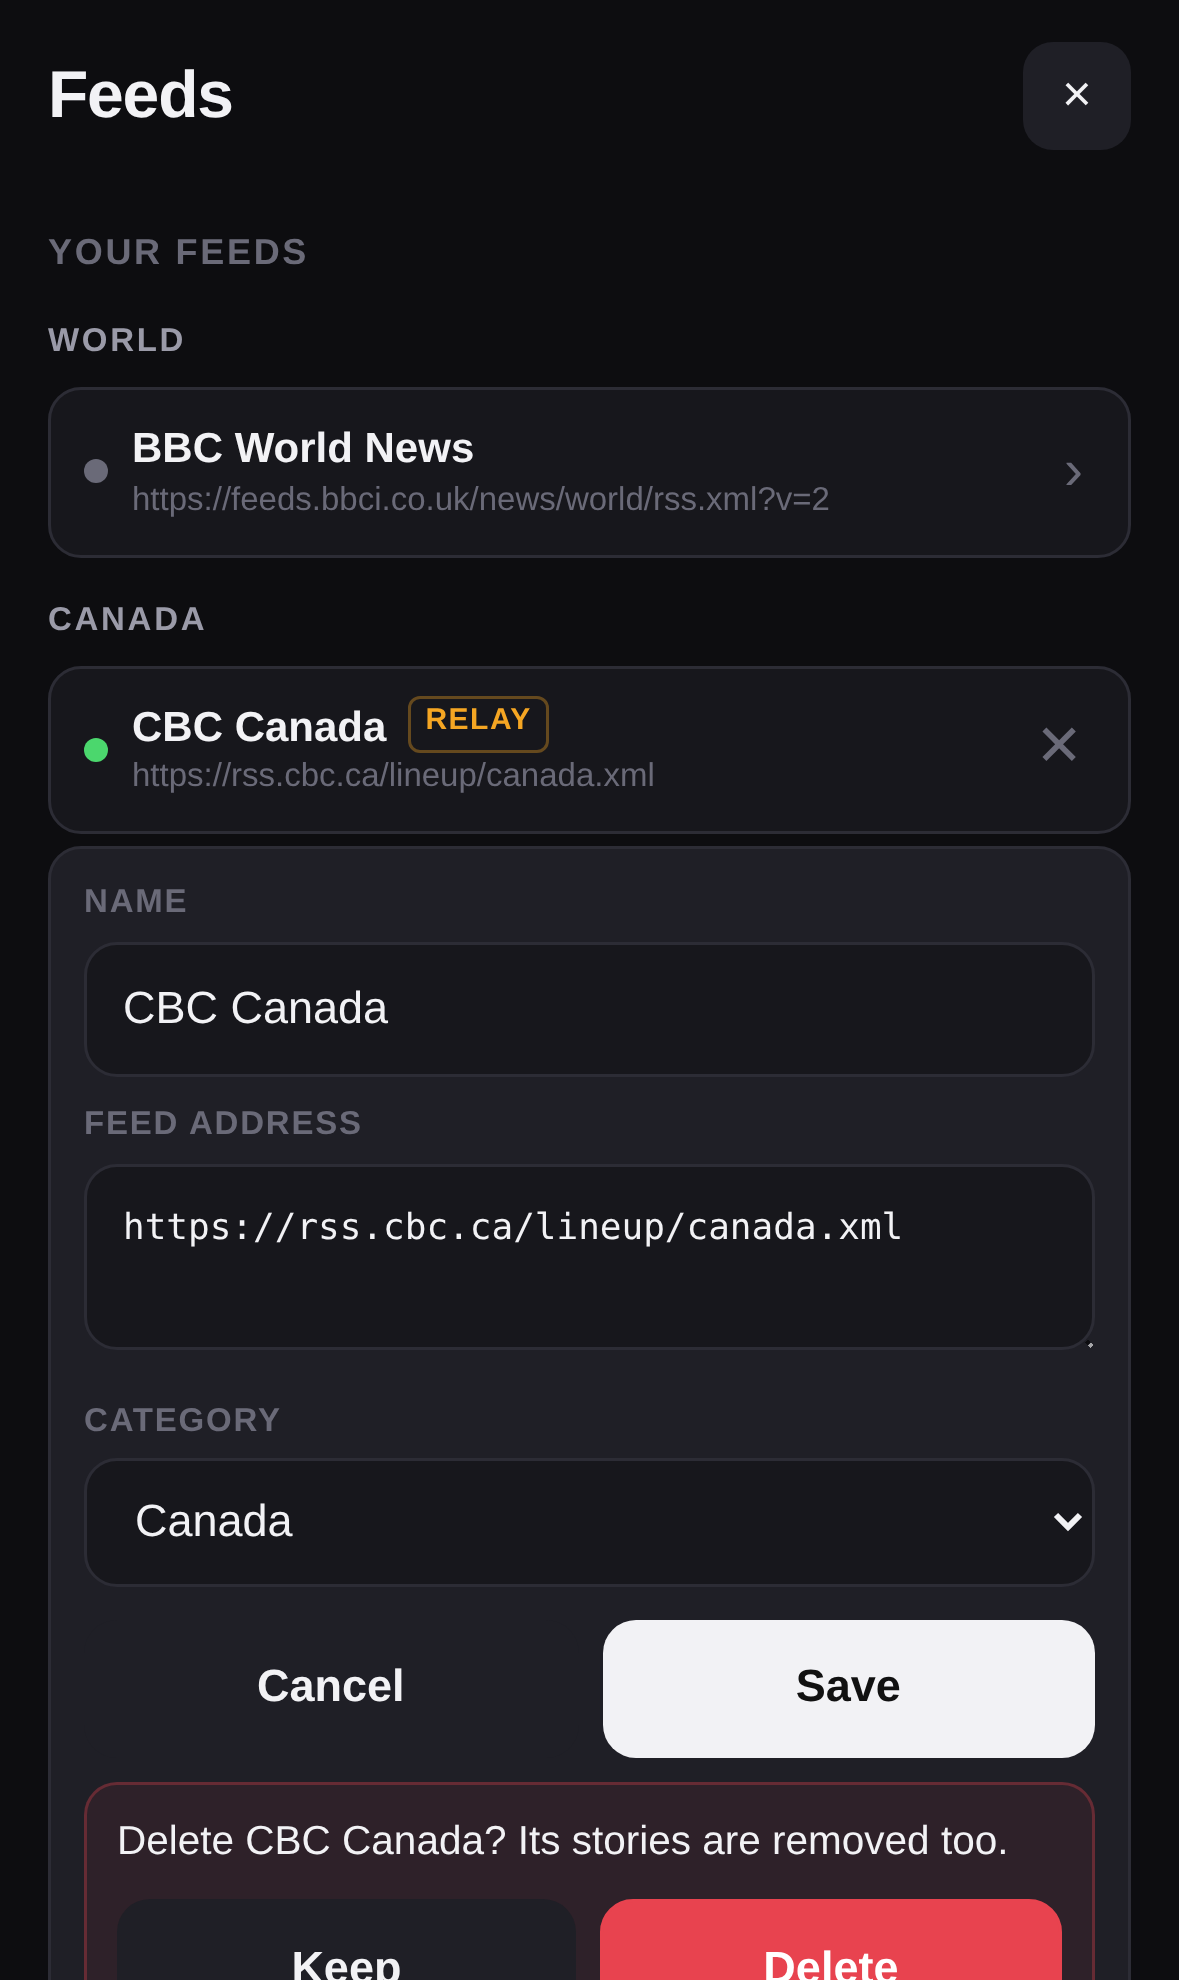
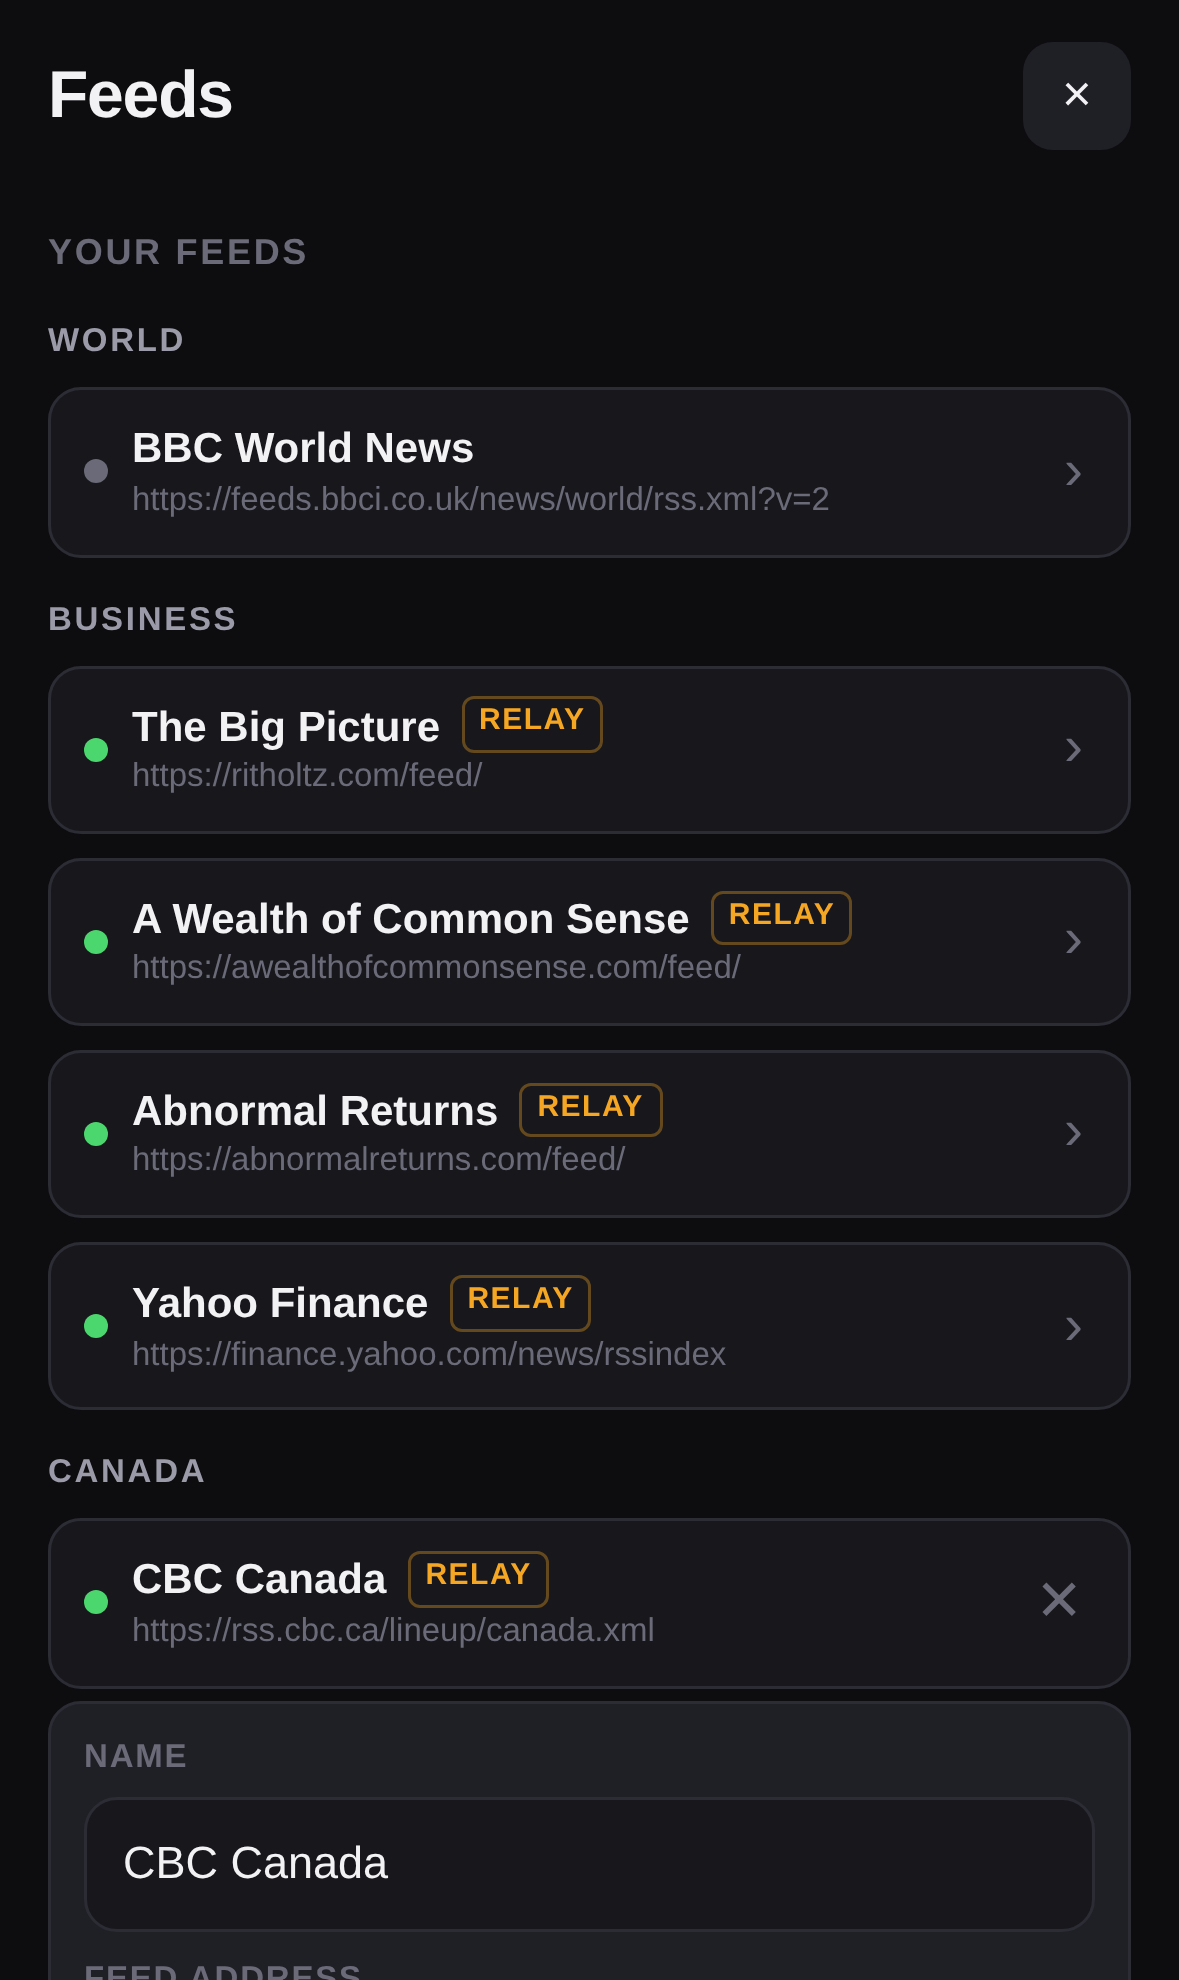
Put Yahoo Finance back: the ask was to supplement, not replace
Build .66 read a complaint about Yahoo Finance's headlines as a request to
drop the feed. It was not - the ask was for calmer investing feeds
alongside it. A complaint about how a feed writes is a reason to put
something next to it, not to take it away; that call belongs to whoever is
reading, and it is one tap either way.

CLICKBAIT_FEEDS is gone. The migration now only adds CALMER_BUSINESS, and
adds RESTORED_BUSINESS to give Yahoo Finance back to anything that already
ran .66. Migration number 12 is burnt rather than reused: a phone that ran
.66 is sitting at 12, and reusing the number would leave that phone the one
device the repair never runs on. Fresh installs are untouched either way -
DEFAULTS carries no `migrated`, so every migration is skipped.

testpaywall now checks that nothing is removed, that a .66 list is repaired
without duplicating what .66 already added, and that a fresh install gets
neither Yahoo nor the supplements.

diff --git a/index.html b/index.html
@@ -553,22 +553,22 @@ const DEAD_FEEDS = [
   "https://www.ctvnews.ca/rss/ctvnews-ca-top-stories-public-rss-1.822009"
 ];
 
-// Retired on how they write rather than on whether they answer. These fetch
-// fine; the headlines are built to be clicked rather than read, which is the
-// one thing a list of headlines cannot absorb. Delivery is the same problem as
-// DEAD_FEEDS - the URL is already in localStorage on the phone, so dropping it
-// from the library alone would change nothing there. It stays in the library,
-// so putting it back is one tap.
-const CLICKBAIT_FEEDS = [
-  "https://finance.yahoo.com/news/rssindex"
-];
-
-// Put in its place. Investing and markets writing whose titles describe the
-// piece; daily or near-daily, so Business does not go quiet without Yahoo.
+// Investing and markets writing whose titles describe the piece rather than
+// bait the tap; daily or near-daily, so they actually show up in the list.
+// These supplement the Business desks already there - nothing is replaced.
 const CALMER_BUSINESS = [
   { cat:"Business", name:"The Big Picture", url:"https://ritholtz.com/feed/" },
   { cat:"Business", name:"A Wealth of Common Sense", url:"https://awealthofcommonsense.com/feed/" },
   { cat:"Business", name:"Abnormal Returns", url:"https://abnormalreturns.com/feed/" }
+];
+
+// Build .66 removed Yahoo Finance, reading a complaint about its headlines as
+// a request to drop it. It was not: the ask was to supplement it. Anything
+// that ran .66 gets it back. Fresh installs never see this - DEFAULTS carries
+// no `migrated`, so `undefined < n` is false and every migration is skipped -
+// and addFeeds will not duplicate it for the lists that still have it.
+const RESTORED_BUSINESS = [
+  { cat:"Business", name:"Yahoo Finance", url:"https://finance.yahoo.com/news/rssindex" }
 ];
 
 // Feeds added to an existing install when a category is requested but empty.
@@ -596,8 +596,8 @@ const SEED_ENTERTAINMENT = [
 
 // Add feeds regardless of what the category already holds. Unlike
 // seedCategory this ignores "removed on purpose", so it is only for a change
-// that was asked for by name - here, replacing a feed the reader complained
-// about. Never duplicates a URL already in the list.
+// that was asked for by name - here, feeds the reader asked to have added.
+// Never duplicates a URL already in the list.
 function addFeeds(c, feeds) {
   const have = new Set(c.feeds.map(f => f.url));
   feeds.forEach(f => { if (!have.has(f.url)) c.feeds.push({ ...f, id: newId() }); });
@@ -689,12 +689,14 @@ function migrate(c) {
   // Yahoo Finance out, calmer markets writing in. Both halves have to happen
   // here: the reader already has the Yahoo URL saved, and a new library entry
   // is invisible until someone goes looking for it.
-  if (c.migrated < 12) {
-    const noisy = new Set(CLICKBAIT_FEEDS);
-    const dropped = c.feeds.some(f => noisy.has(f.url));
-    c.feeds = c.feeds.filter(f => !noisy.has(f.url));
-    if (dropped) addFeeds(c, CALMER_BUSINESS);
-    c.migrated = 12;
+  // 12 was a Yahoo Finance removal, withdrawn before it reached main. The
+  // number is burnt rather than reused: a phone that ran build .66 is already
+  // sitting at 12, and reusing it would leave that phone the one device the
+  // repair below never runs on.
+  if (c.migrated < 13) {
+    addFeeds(c, CALMER_BUSINESS);
+    addFeeds(c, RESTORED_BUSINESS);
+    c.migrated = 13;
   }
   return c;
 }
@@ -712,7 +714,7 @@ function normalise(c) {
 }
 
 const load = () => { try { return normalise(migrate({...DEFAULTS, ...JSON.parse(localStorage.getItem(KEY) || "{}")})); }
-                     catch { return normalise({...DEFAULTS, migrated:12}); } };
+                     catch { return normalise({...DEFAULTS, migrated:13}); } };
 const save = () => localStorage.setItem(KEY, JSON.stringify(cfg));
 let cfg = load();
 // Persist immediately: migrations rewrite feed URLs and backfill categories,
@@ -2255,7 +2257,7 @@ if ("serviceWorker" in navigator) {
     location.reload();
   });
 }
-const BUILD = "2026-08-25.66";
+const BUILD = "2026-08-25.67";
 $("#ver").textContent = "News · build " + BUILD + " · "
   + cfg.feeds.length + " feeds · all data stays on this device";
 </script>

diff --git a/sw.js b/sw.js
@@ -1,7 +1,7 @@
 /* Caches the app shell so the app opens instantly and works with no signal.
    Feed responses are never cached here - they go through localStorage instead,
    so stale headlines can't be served as if they were fresh. */
-const SHELL = "news-shell-v66";
+const SHELL = "news-shell-v67";
 const FILES = [
   "./",
   "./index.html",

diff --git a/README.md b/README.md
@@ -218,24 +218,29 @@ carry real weight arrive through the World feeds anyway, and a dedicated desk
 for each mostly added routine domestic politics.
 
 **Business** is deliberately the deepest category. Most of it is free to read
-with no metering: BBC, NPR and CBC business desks, Marketplace, CNBC,
-Investing.com, ProPublica and The Conversation for news; The Big Picture, A
+with no metering: BBC, NPR and CBC business desks, Marketplace, CNBC, Yahoo
+Finance, Investing.com, ProPublica and The Conversation for news; The Big Picture, A
 Wealth of Common Sense, Abnormal Returns, Musings on Markets, Klement on
 Investing and Calculated Risk for investing and markets writing; Federal
 Reserve, SEC and BLS releases as primary sources — the least clickbaitable
 headlines there are, since a release called "Consumer Price Index — July 2026"
 is the whole story.
 
-**Clickbait is a reason to retire a feed.** Yahoo Finance fetched perfectly
-well and was dropped anyway: the titles were written to be clicked rather than
-read, which is the one thing a screen that is nothing but titles cannot
-absorb. Its URL is in `CLICKBAIT_FEEDS` and a migration removes it from every
-installed feed list, in the same way `DEAD_FEEDS` handles a feed that stopped
-answering — shipping a change to the library alone does nothing for a phone
-that already has the URL saved. Because a removal is only half an answer, the
-same migration adds `CALMER_BUSINESS` in its place, and only for readers who
-actually had Yahoo. It stays in the library, so putting it back is one tap.
-Investing.com is the other feed in that genre and is still there, untouched.
+**Supplementing beats replacing.** The investing feeds above were added
+because Yahoo Finance and Investing.com write for the tap rather than the
+read, and a screen that is nothing but titles cannot absorb that. Neither was
+removed: a complaint about how a feed writes is a reason to put something
+calmer next to it, not to take it away — that call belongs to whoever is
+reading, and it is one tap either way. `CALMER_BUSINESS` is added to the
+Business list by migration rather than left in the library, since a new
+library entry is invisible until someone goes looking for it.
+
+Build `.66` did remove Yahoo Finance, misreading the complaint as a request to
+drop it. `.67` puts it back via `RESTORED_BUSINESS` and burns migration number
+12 rather than reusing it — a phone that ran `.66` is already sitting at 12,
+and reusing the number would leave that phone the one device the repair never
+runs on. Fresh installs are unaffected either way: `DEFAULTS` carries no
+`migrated`, so `undefined < n` is false and every migration is skipped.
 
 **Paywalled feeds are offered, and marked.** The FT, WSJ, Bloomberg, Financial
 Post and Economist used to be left out because their links dead-end on a

diff --git a/tests/README.md b/tests/README.md
@@ -44,7 +44,7 @@ If Chromium is somewhere else, set `CHROMIUM_PATH`.
 | `testsetup` | The setup link restores feeds and refuses a corrupt one |
 | `testresume` | Backgrounding releases the parked panels; a launch on a hanging network serves the cache rather than a blank page |
 | `testupdate` | Is a new build picked up rather than served from cache? |
-| `testpaywall` | Does the Yahoo Finance swap reach a saved feed list without pushing feeds at anyone who never had it, and are paywalled feeds marked and skipped by "Add all"? |
+| `testpaywall` | Do the supplementary Business feeds reach a saved feed list without removing anything, is a fresh install left alone, and are paywalled feeds marked and skipped by "Add all"? |
 
 ## Writing another
 

diff --git a/CLAUDE.md b/CLAUDE.md
@@ -32,8 +32,8 @@ something that went wrong on the device.
 - **Feed URLs cannot be verified from here.** The sandbox has no outbound
   network, so any feed shipped in the catalogue is a guess until the phone
   says otherwise. That is why there are health dots, a "Test all feeds"
-  button, and the `DEAD_FEEDS`/`SWAPPED`/`CLICKBAIT_FEEDS` migration
-  mechanisms. Do not claim a feed works.
+  button, and the `DEAD_FEEDS`/`SWAPPED` migration mechanisms. Do not claim a
+  feed works.
 - **Cached stories outlive the feed they came from.** Removing a feed without
   `pruneOrphans()` leaves its headlines on screen.
 - **The three panels are never created, destroyed, reparented or restyled.**
